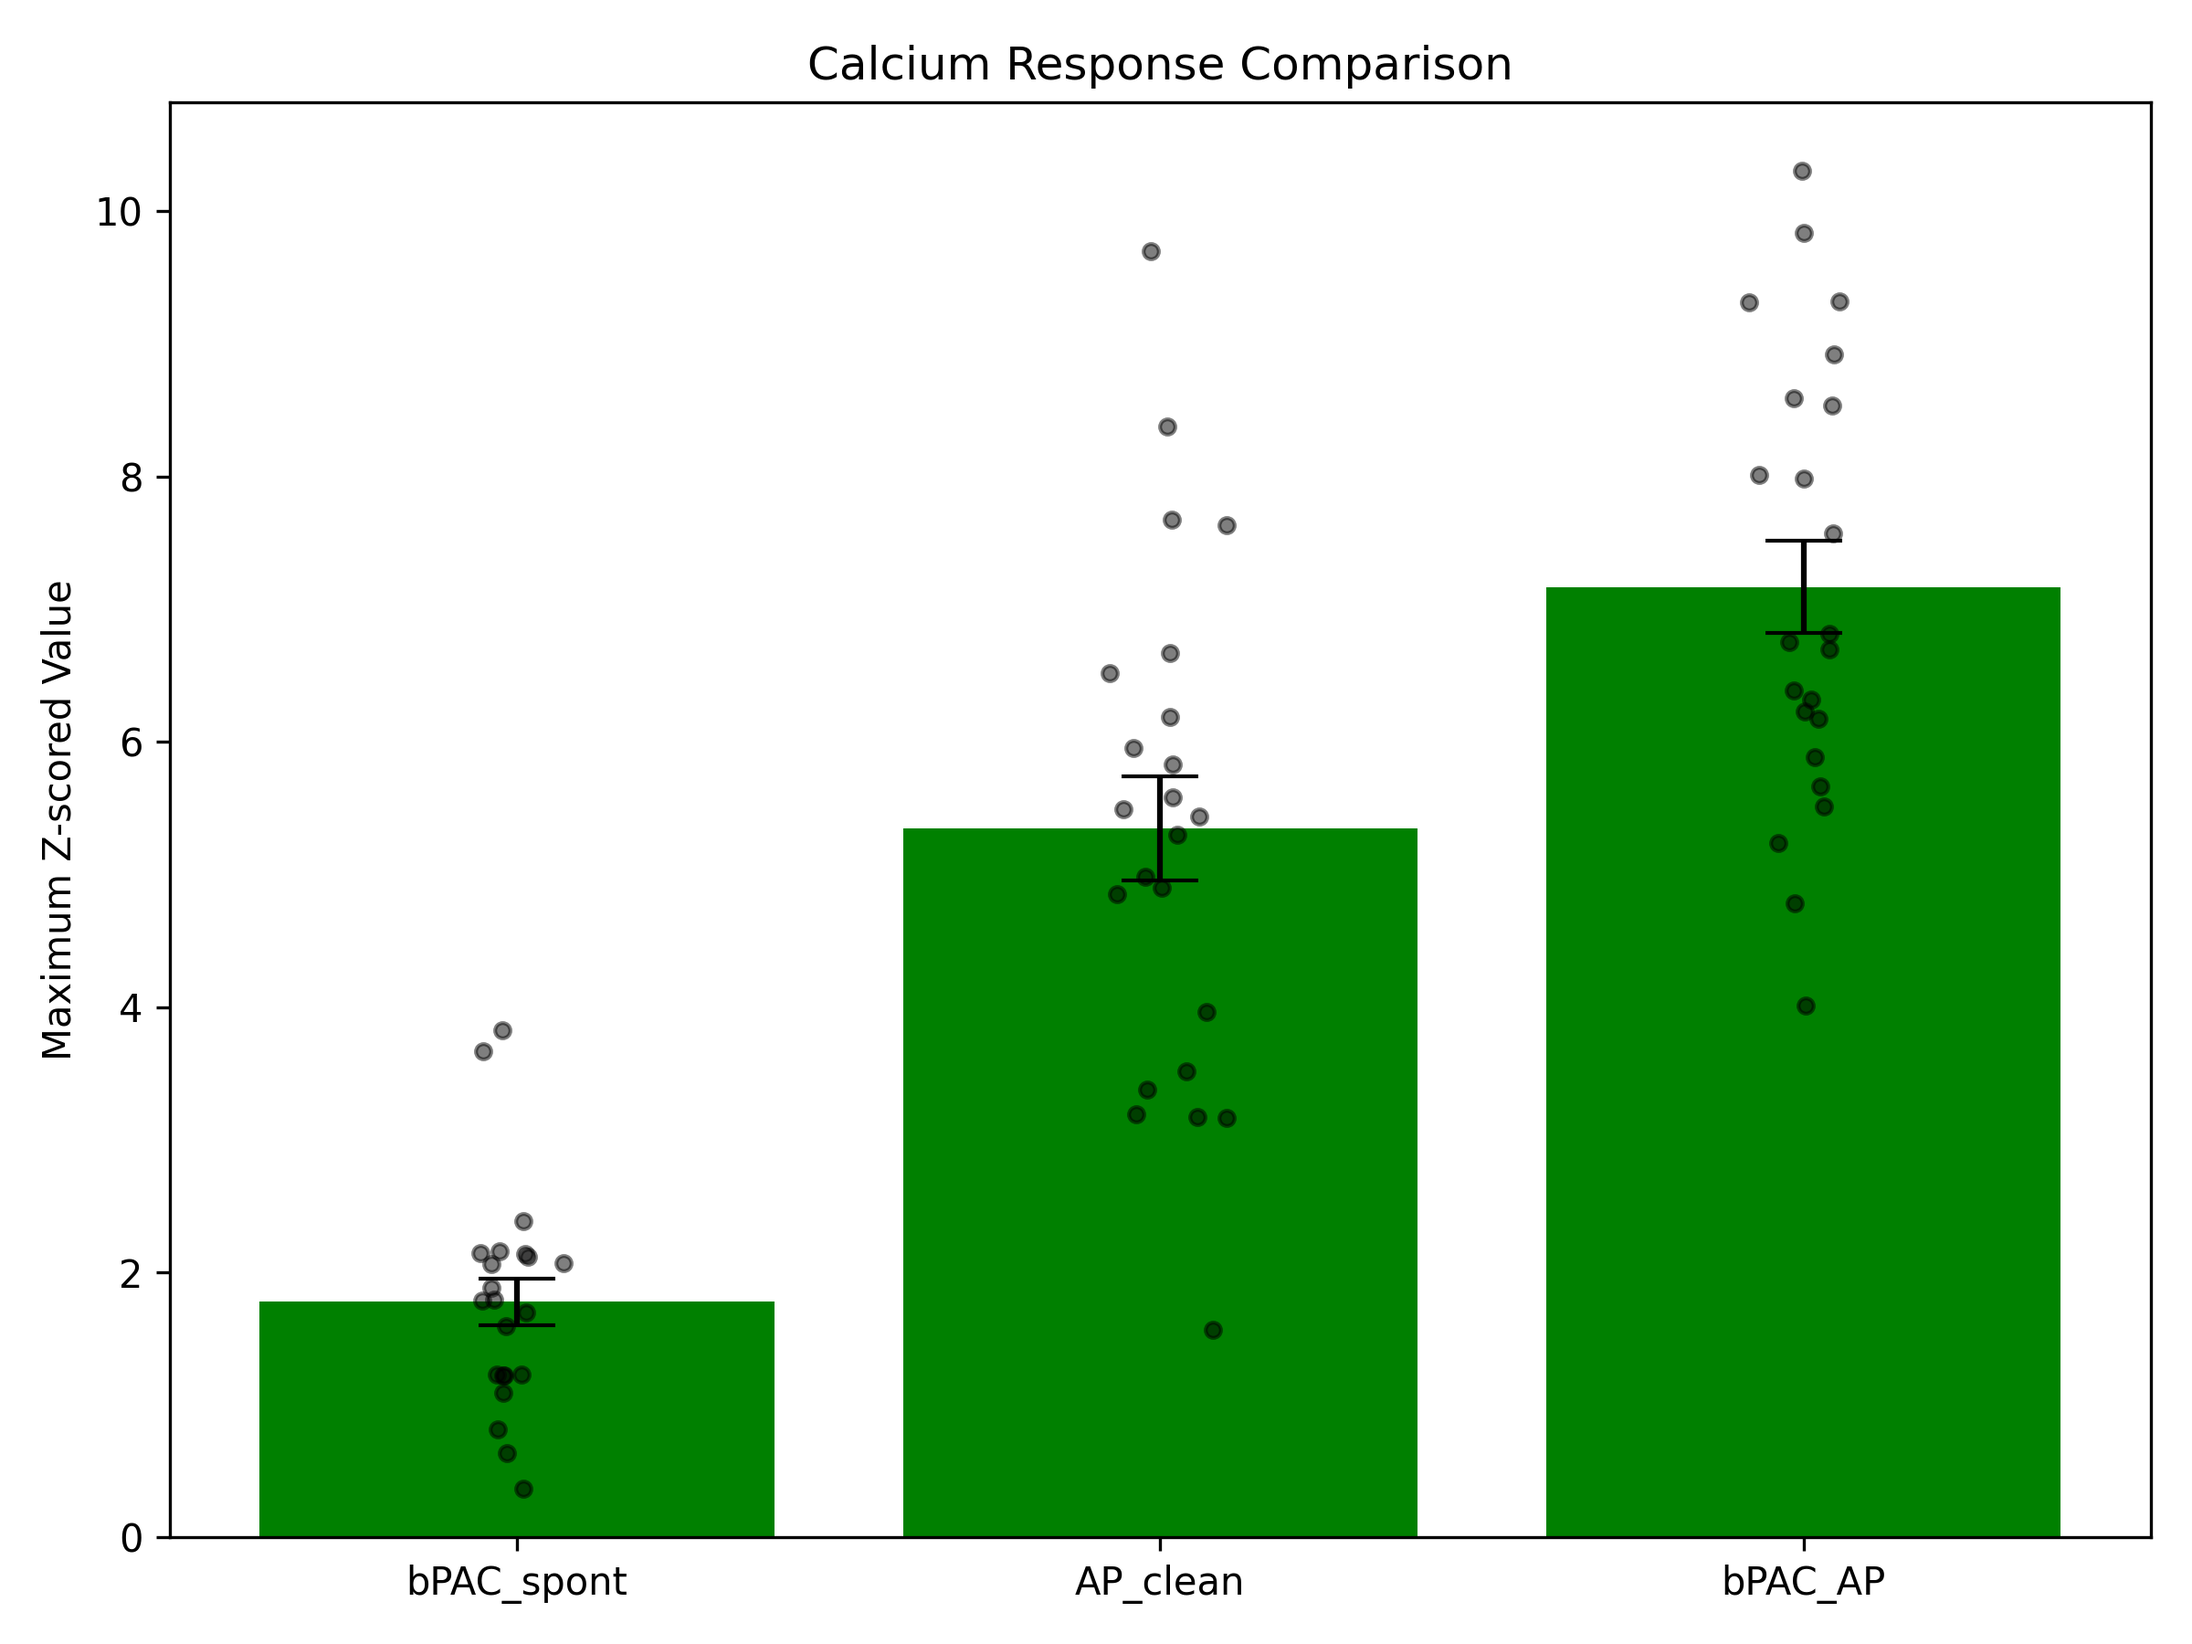
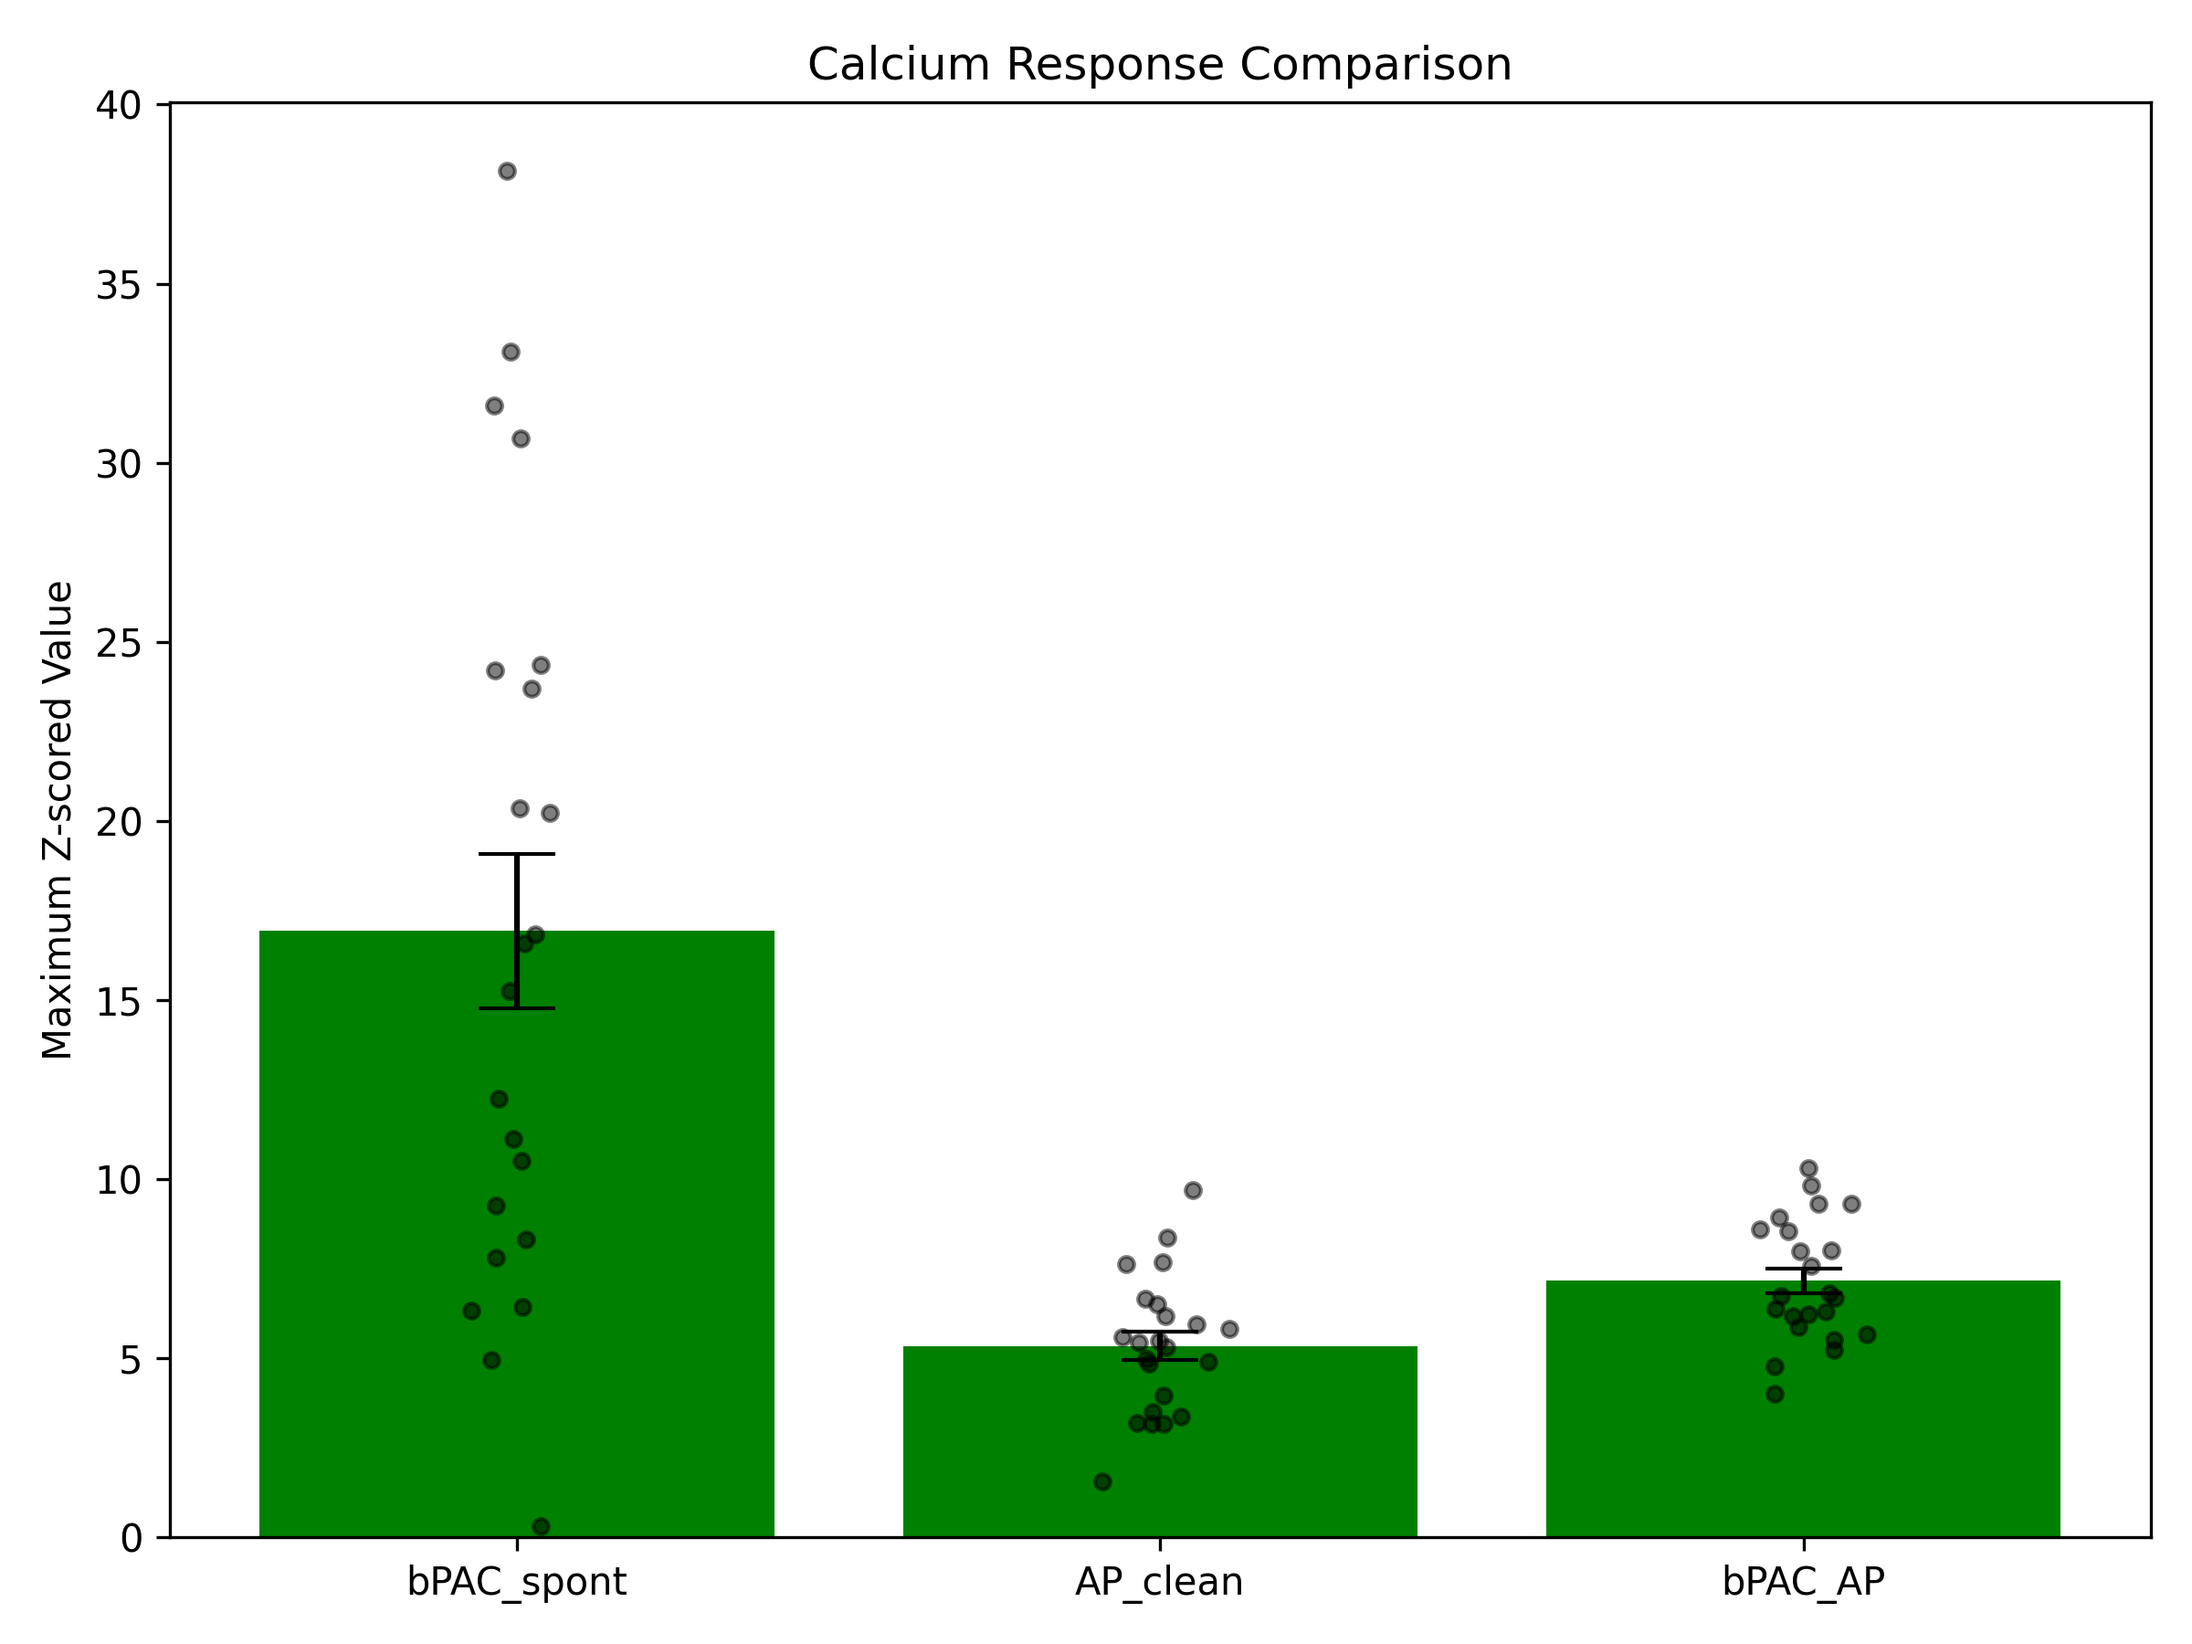
Update calcium comparison script to support both z-scored and normalized traces. Added script to visualize first trace. Modified plot generation to save as PDF in data directory.

diff --git a/ca_comparison.py b/ca_comparison.py
@@ -15,49 +15,38 @@ import pandas as pd
 import numpy as np
 import matplotlib.pyplot as plt
 
-def extract_max_values(df, condition, range_type='stim', range_start=None, range_end=None):
-    """
-    Extract maximum values from Channel B z-scored traces based on specified range.
-    
-    Args:
-        df (pandas.DataFrame): DataFrame containing the trace data
-        condition (str): Name of the condition
-        range_type (str): Either 'stim' for stimulation-based range or 'fixed' for fixed range
-        range_start (int): Start of fixed range (only used if range_type='fixed')
-        range_end (int): End of fixed range (only used if range_type='fixed')
-        
-    Returns:
-        list: List of maximum values
-    """
+def extract_max_values(df, condition, trace_type='ChanB_Z_trc'):
+    """Extract maximum values from specified trace type based on condition"""
     max_values = []
-    
     for idx, row in df.iterrows():
-        if not isinstance(row['ChanB_Z_trc'], np.ndarray) or pd.isna(row['Stim']):
-            continue
+        if isinstance(row[trace_type], np.ndarray):
+            if condition == 'bPAC_spont':
+                # Use fixed range 15-25 for bPAC_spont
+                start_idx = 15
+                end_idx = 25
+            elif condition == 'AP_clean':
+                # Use fixed range 34-44 for AP_clean
+                start_idx = 34
+                end_idx = 44
+            elif condition == 'bPAC_AP':
+                # Use range from stim to stim+15 for bPAC_AP
+                if not pd.isna(row['Stim']):
+                    start_idx = int(row['Stim'])
+                    end_idx = start_idx + 15
+                else:
+                    continue
             
-        trace = row['ChanB_Z_trc']
-        
-        if range_type == 'stim':
-            # Use stimulation point + 15 frames
-            start_idx = int(row['Stim'])
-            end_idx = start_idx + 15
-        else:
-            # Use fixed range
-            start_idx = range_start
-            end_idx = range_end
+            # Ensure indices are within bounds
+            start_idx = max(0, start_idx)
+            end_idx = min(len(row[trace_type]), end_idx)
             
-        # Ensure indices are within trace bounds
-        start_idx = max(0, start_idx)
-        end_idx = min(len(trace), end_idx)
-        
-        # Extract maximum value in the range
-        max_val = np.max(trace[start_idx:end_idx])
-        max_values.append(max_val)
+            # Extract and store maximum value
+            max_val = np.max(row[trace_type][start_idx:end_idx])
+            max_values.append(max_val)
     
-    print(f"Found {len(max_values)} values for {condition}")
-    return max_values
+    return np.array(max_values)
 
-def create_barplot(bpac_spont_values, ap_clean_values, bpac_ap_values):
+def create_barplot(bpac_spont_values, ap_clean_values, bpac_ap_values, trace_type, output_path):
     """
     Create a barplot comparing the three conditions.
     
@@ -65,6 +54,8 @@ def create_barplot(bpac_spont_values, ap_clean_values, bpac_ap_values):
         bpac_spont_values (list): List of maximum values for bPAC_spont condition
         ap_clean_values (list): List of maximum values for AP_clean condition
         bpac_ap_values (list): List of maximum values for bPAC_AP condition
+        trace_type (str): Type of trace used ('ChanB_Z_trc' or 'ChanB_norm_trc')
+        output_path (str): Path to save the plot
     """
     # Calculate means and standard errors
     means = [
@@ -92,8 +83,9 @@ def create_barplot(bpac_spont_values, ap_clean_values, bpac_ap_values):
     # Customize the plot
     ax.set_xticks(x)
     ax.set_xticklabels(labels)
-    ax.set_ylabel('Maximum Z-scored Value')
-    ax.set_title('Calcium Response Comparison')
+    ylabel = 'Maximum Z-scored Value' if trace_type == 'ChanB_Z_trc' else 'Maximum Normalized Value'
+    ax.set_ylabel(ylabel)
+    ax.set_title(f'Calcium Response Comparison ({trace_type})')
     
     # Add individual data points
     for i, values in enumerate([bpac_spont_values, ap_clean_values, bpac_ap_values]):
@@ -103,8 +95,7 @@ def create_barplot(bpac_spont_values, ap_clean_values, bpac_ap_values):
     plt.tight_layout()
     
     # Save the plot
-    output_path = os.path.join(os.path.dirname(os.path.abspath(__file__)), 'calcium_comparison.png')
-    plt.savefig(output_path, dpi=300)
+    plt.savefig(output_path, dpi=300, format='pdf')
     print(f"\nPlot saved to: {output_path}")
     
     # Show the plot
@@ -112,7 +103,7 @@ def create_barplot(bpac_spont_values, ap_clean_values, bpac_ap_values):
 
 def main():
     """
-    Main function to load data and generate the comparison plot.
+    Main function to load data and generate the comparison plots.
     """
     # Load bPAC_spont data
     bpac_spont_path = r"C:\Users\rasmu\Desktop\TEMP LOCAL FILES\bPAC_spont\ROI_quant_overview.pkl"
@@ -124,14 +115,23 @@ def main():
     print(f"Loading bPAC_APs data from: {bpac_aps_path}")
     bpac_aps_df = pd.read_pickle(bpac_aps_path)
     
-    # Extract values for each condition
-    print("\nExtracting maximum values...")
-    bpac_spont_values = extract_max_values(bpac_spont_df, 'bPAC_spont', 'stim')
-    ap_clean_values = extract_max_values(bpac_aps_df, 'AP_clean', 'fixed', 34, 44)
-    bpac_ap_values = extract_max_values(bpac_aps_df, 'bPAC_AP', 'stim')
+    # Create output directory based on first pickle file location
+    output_dir = os.path.dirname(bpac_spont_path)
     
-    # Create and save the barplot
-    create_barplot(bpac_spont_values, ap_clean_values, bpac_ap_values)
+    # Process both trace types
+    for trace_type in ['ChanB_Z_trc', 'ChanB_norm_trc']:
+        print(f"\nProcessing {trace_type}...")
+        
+        # Extract values for each condition
+        bpac_spont_values = extract_max_values(bpac_spont_df, 'bPAC_spont', trace_type)
+        ap_clean_values = extract_max_values(bpac_aps_df, 'AP_clean', trace_type)
+        bpac_ap_values = extract_max_values(bpac_aps_df, 'bPAC_AP', trace_type)
+        
+        # Create output path
+        output_path = os.path.join(output_dir, f'calcium_comparison_{trace_type}.pdf')
+        
+        # Create and save the barplot
+        create_barplot(bpac_spont_values, ap_clean_values, bpac_ap_values, trace_type, output_path)
 
 if __name__ == "__main__":
     main() 

diff --git a/show_first_trace.py b/show_first_trace.py
@@ -1,0 +1,22 @@
+import pandas as pd
+import numpy as np
+import matplotlib.pyplot as plt
+
+# Load the pickle file
+df = pd.read_pickle(r"C:\Users\rasmu\Desktop\TEMP LOCAL FILES\bPAC_spont\ROI_quant_overview.pkl")
+
+# Get the first trace
+first_trace = df.iloc[0]['ChanB_Z_trc']
+
+# Print the trace data
+print("First trace data:")
+print(first_trace)
+
+# Plot the trace
+plt.figure(figsize=(10, 4))
+plt.plot(first_trace)
+plt.title('First ChanB_Z_trc')
+plt.xlabel('Frame')
+plt.ylabel('Z-score')
+plt.grid(True)
+plt.show() 
